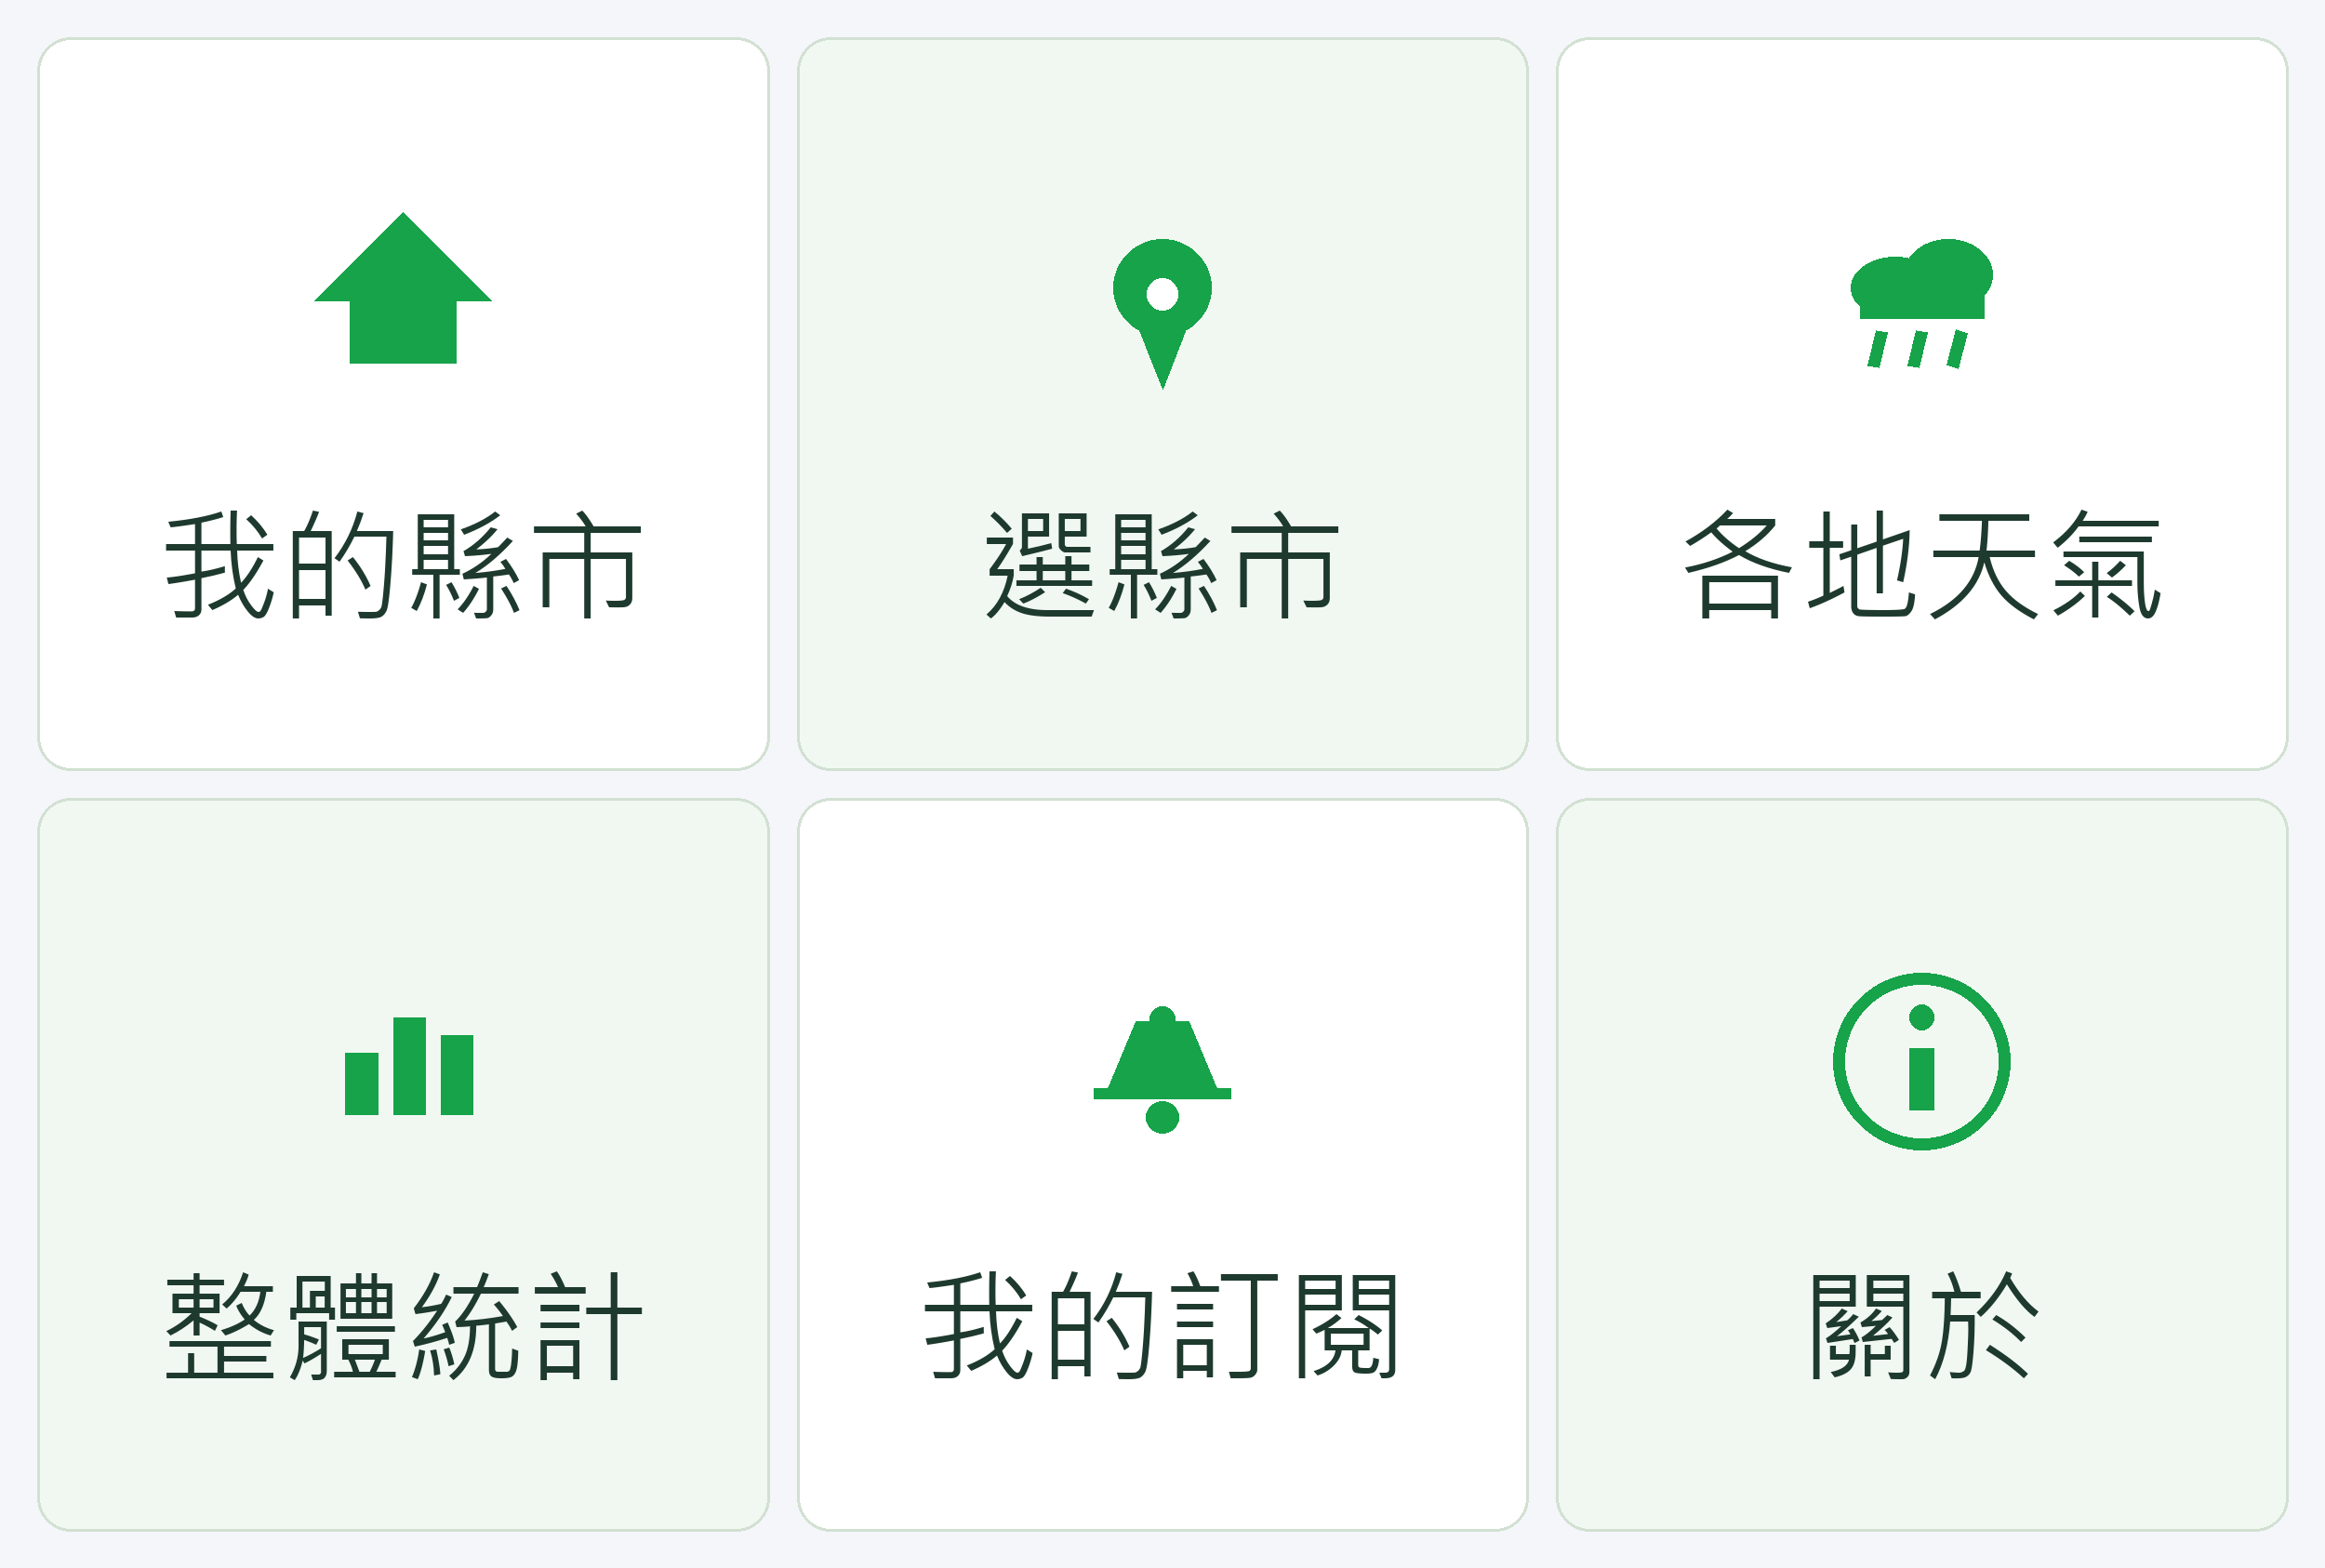
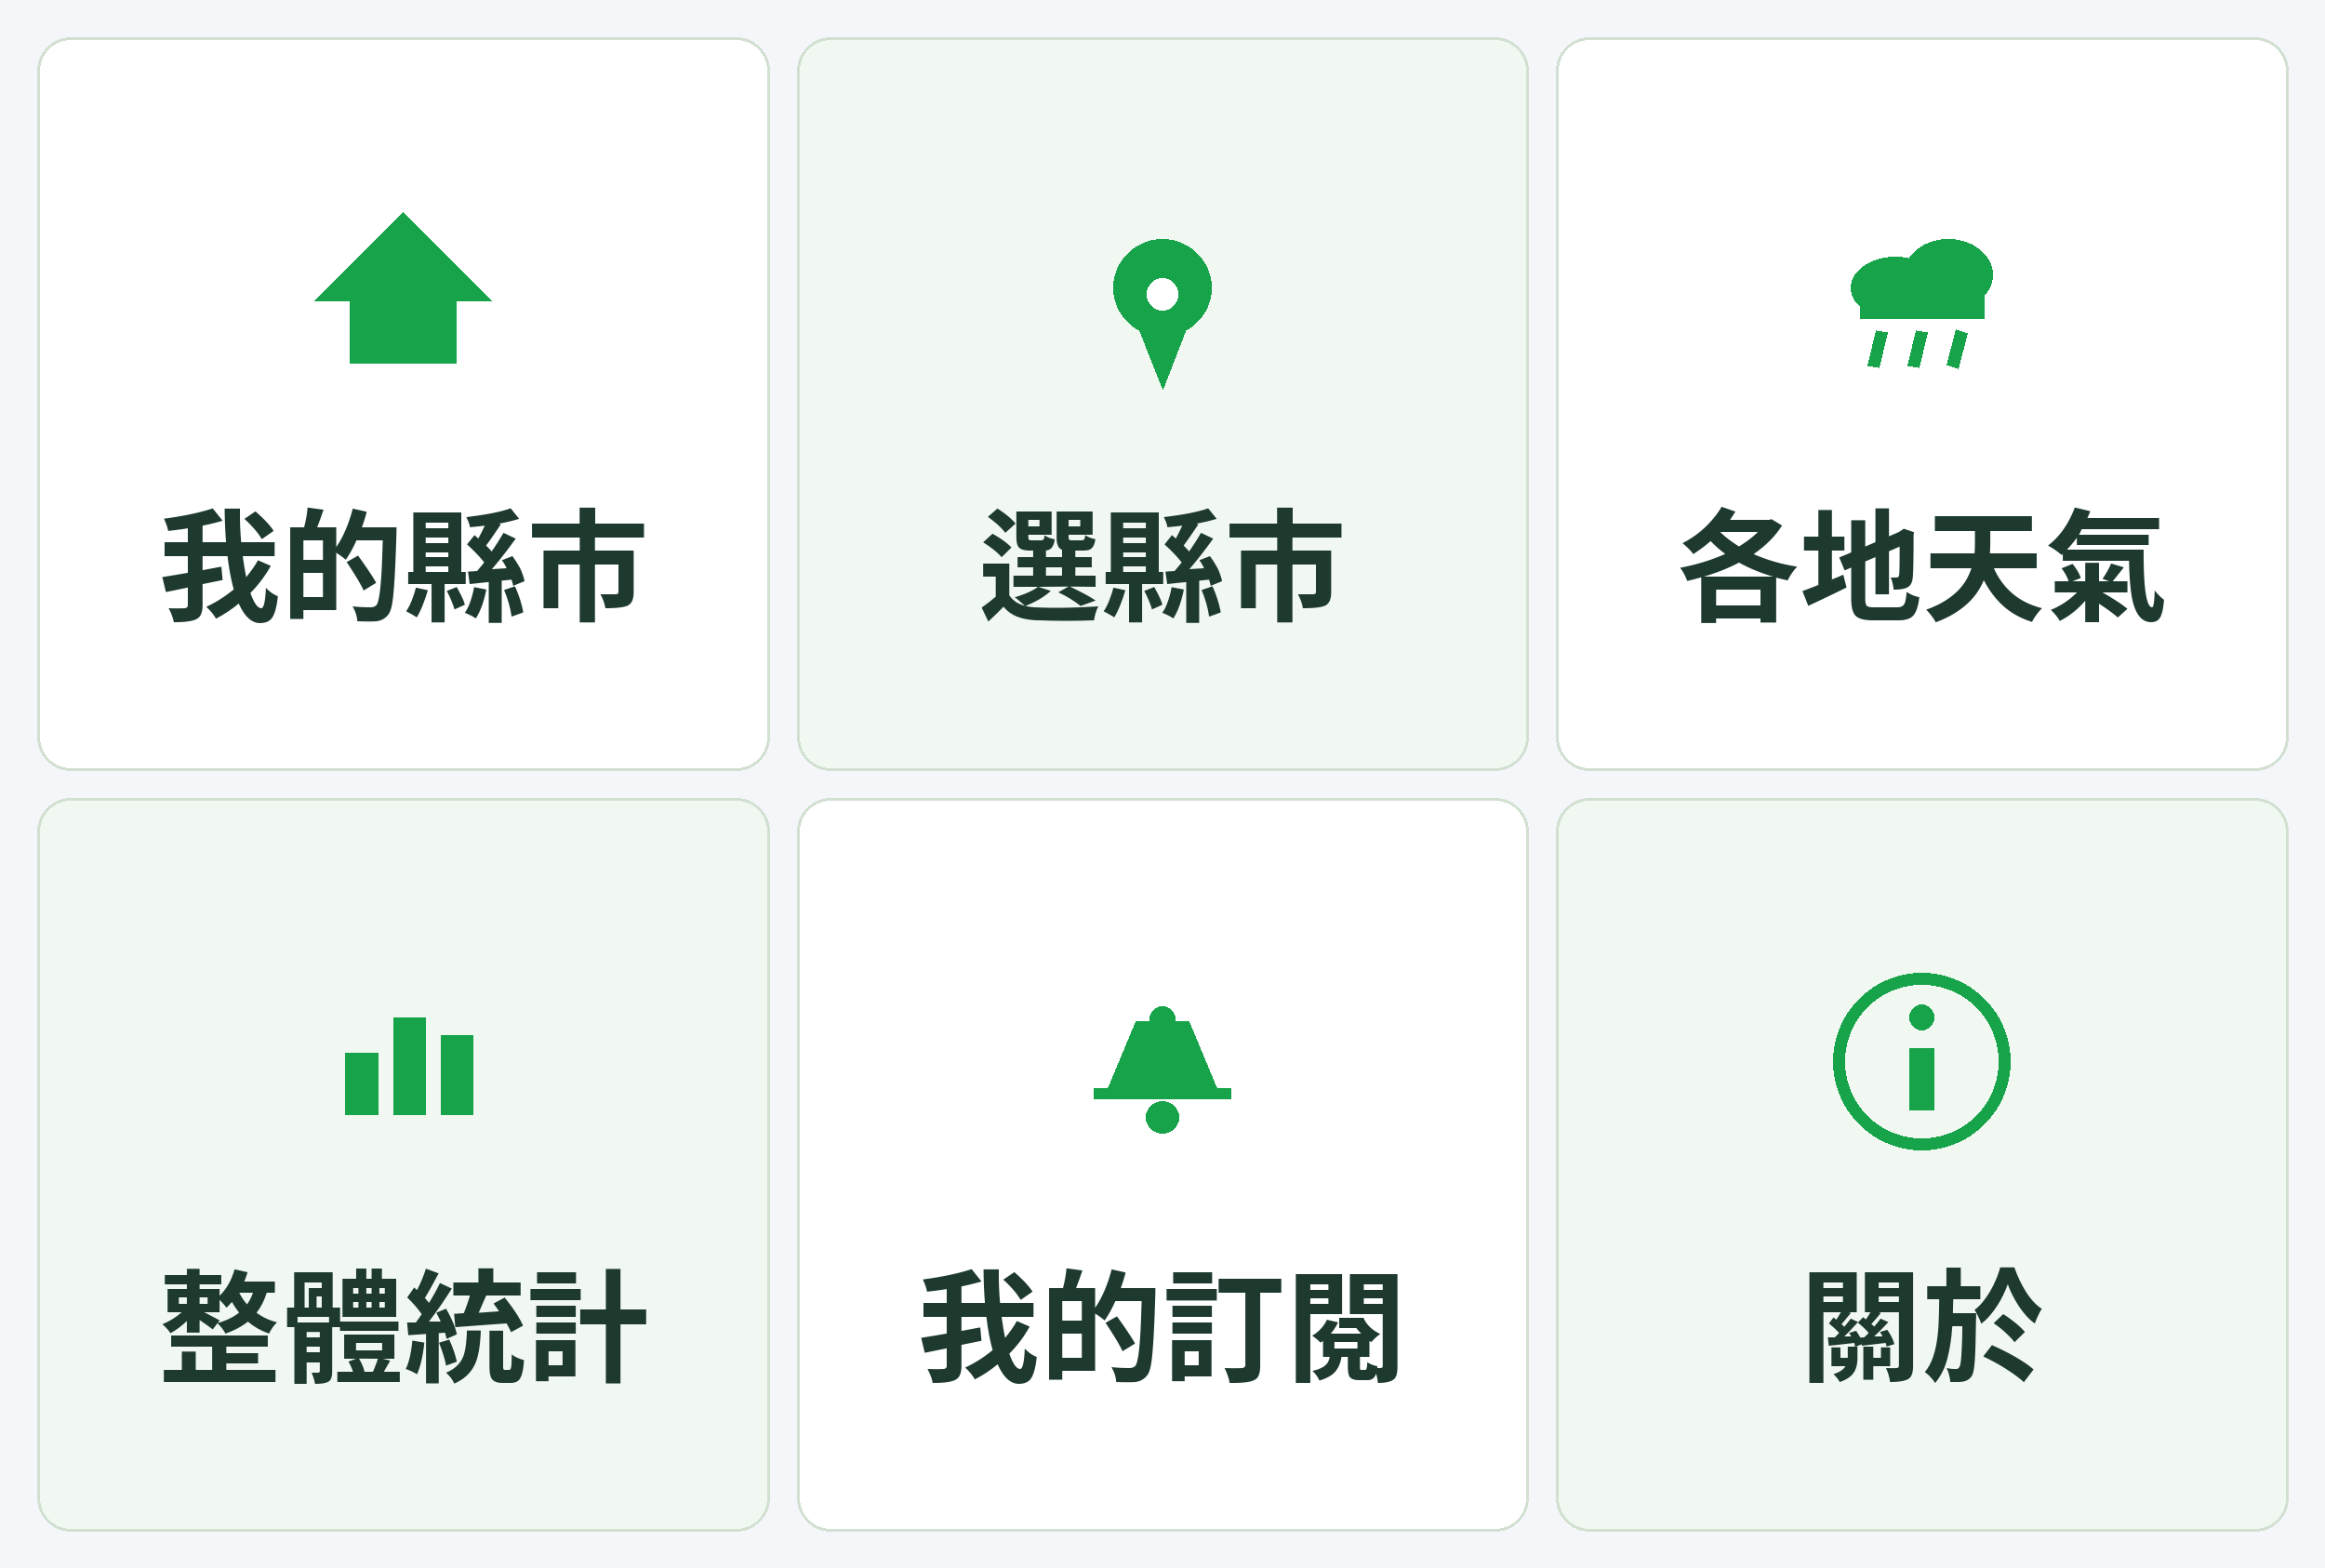
20260602_style(richmenu): 淺底配色 + 台北黑體,提升設計感_18

diff --git a/make_rich_menu.py b/make_rich_menu.py
@@ -24,7 +24,7 @@ ICON = (22, 163, 74)        # 品牌綠 #16a34a(圖示色)
 TEXT = (30, 58, 47)         # 深綠灰文字 #1E3A2F
 ICON_BG_TINT = (241, 248, 241)  # 圖示後的圓形襯底(可選)
 
-FONT_PATH = "C:/Windows/Fonts/msjh.ttc"
+FONT_PATH = "fonts/TaipeiSansTCBeta-Bold.ttf"   # 台北黑體 粗體(設計感字型)
 
 # ---- 6 格內容:(主標題, 圖示類型) ----
 TILES = [